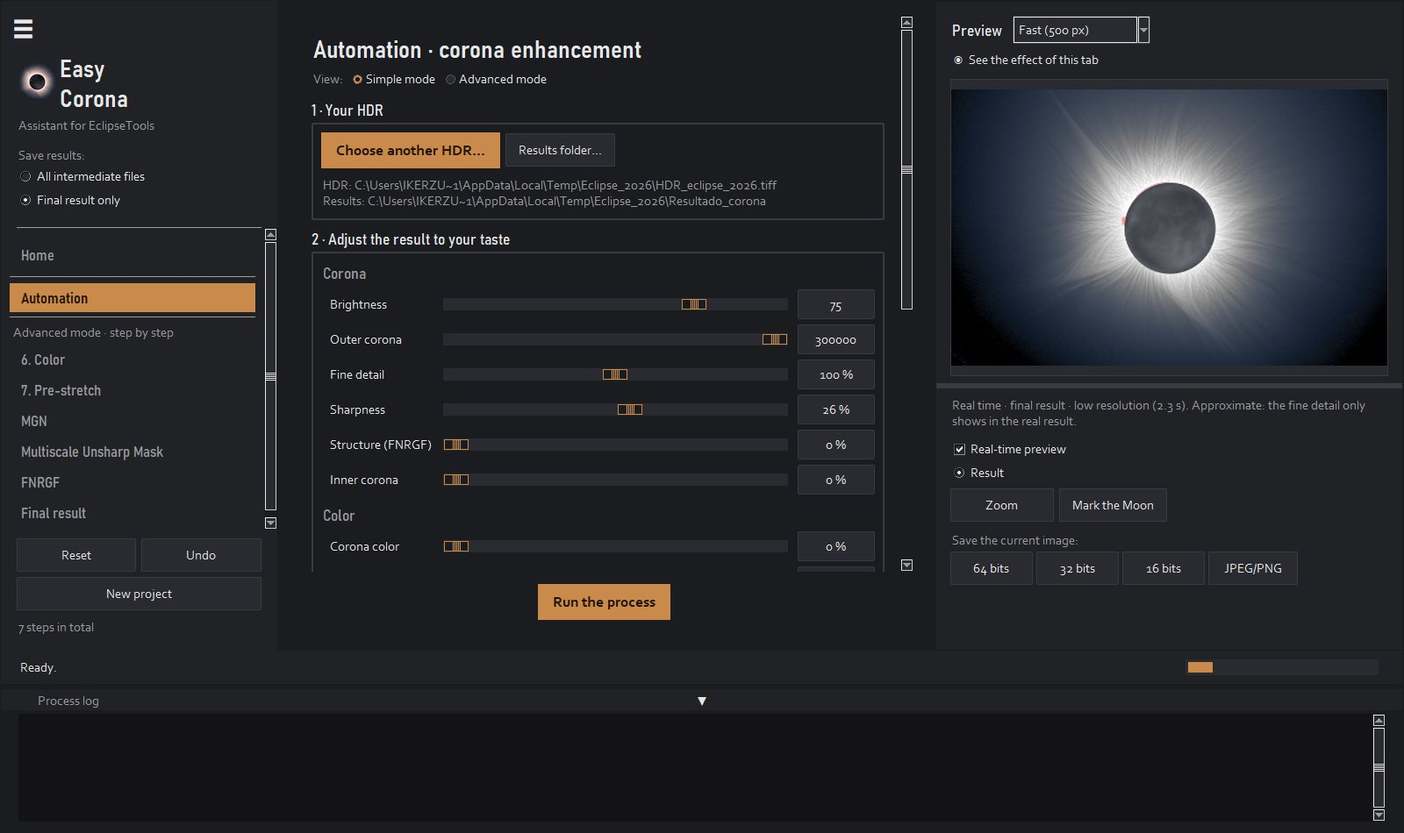
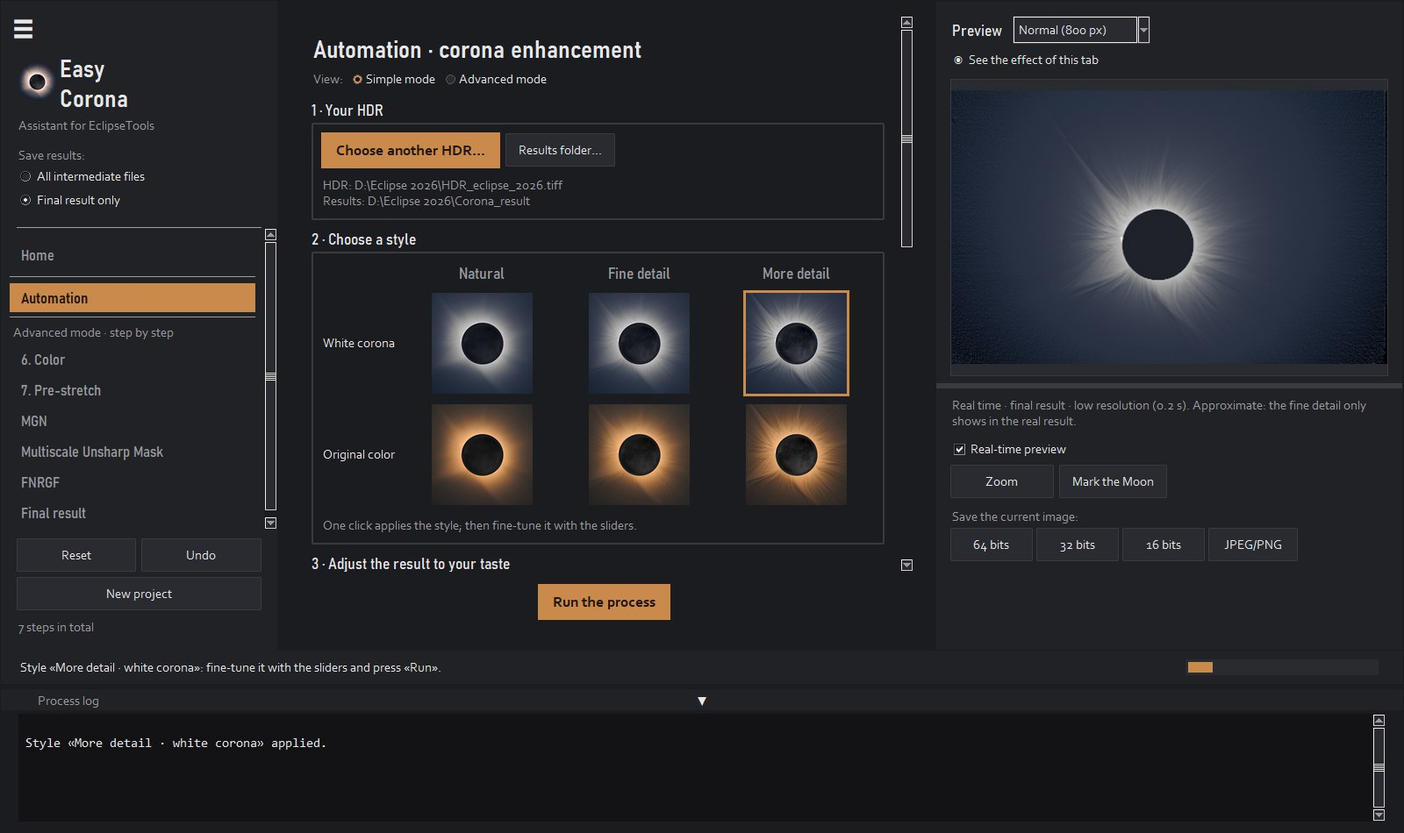
Easy Corona 1.4.4: descargas, novedades, estilos y capturas sin rutas personales
- Descargas y version.json de la 1.4.4 (actualizar desde la app).
- Sección «Mismas fotos, siete resultados» (los seis, estilos de la app).
- Capturas de la app y del tutorial sin rutas con el nombre del usuario; tutorial con los estilos.

diff --git a/index.html b/index.html
@@ -300,6 +300,19 @@
   .rotulo.der { right: 14px; color: var(--cobre-claro); }
   .pie { margin-top: 14px; display: flex; flex-wrap: wrap; justify-content: space-between; gap: 8px 24px; color: var(--gris-2); font: 400 0.85rem/1.5 var(--mono); }
 
+  /* Estilos: la misma corona de siete maneras (la mía primero, sola en el centro de la primera fila) */
+  .estilos { display: grid; grid-template-columns: repeat(3, minmax(0, 1fr)); gap: 22px 18px; margin: 0; padding: 0; list-style: none; }
+  @media (max-width: 860px) { .estilos { grid-template-columns: repeat(2, minmax(0, 1fr)); grid-template-rows: repeat(4, auto); grid-auto-flow: column; } }
+  @media (max-width: 420px) { .estilos { gap: 16px 10px; } }
+  .estilo { margin: 0; display: grid; gap: 10px; align-content: start; }
+  .estilo img { width: 100%; height: auto; aspect-ratio: 1; object-fit: cover; border-radius: 4px; border: 1px solid var(--linea); background: #0d1119; }
+  .estilo figcaption { display: grid; gap: 2px; }
+  .estilo b { font: 600 1.25rem/1.2 var(--display); }
+  .estilo span { color: var(--gris); font-size: 0.98rem; line-height: 1.4; }
+  .estilos .mia { grid-column: 1 / -1; justify-self: center; width: calc((100% - 36px) / 3); }
+  @media (max-width: 860px) { .estilos .mia { grid-column: 1 / -1; grid-row: 1; justify-self: center; width: calc(50% - 9px); } }
+  @media (max-width: 420px) { .estilos .mia { width: calc(50% - 5px); } }
+
   /* Qué hace */
   .rasgos { display: grid; grid-template-columns: repeat(auto-fit, minmax(300px, 1fr)); gap: 0 56px; }
   .rasgo { display: grid; grid-template-columns: 7.2rem 1fr; gap: 18px; padding-block: 22px; border-top: 1px solid var(--linea); }
@@ -410,7 +423,7 @@
           <a class="boton boton-principal" href="#mac">Descargar gratis <small>Mac</small></a>
           <a class="boton boton-secundario" href="#antes">Ver el antes y después</a>
         </div>
-        <p class="portada-datos">Windows 10 y 11 · macOS 15 o posterior · en español e inglés · versión 1.4.3</p>
+        <p class="portada-datos">Windows 10 y 11 · macOS 15 o posterior · en español e inglés · versión 1.4.4</p>
       </div>
     </div>
     <p class="credito">Foto: Iker Zubizarreta</p>
@@ -466,6 +479,26 @@
     </div>
   </section>
 
+  <section id="estilos" aria-labelledby="t-estilos" style="padding-top:0">
+    <div class="envoltura">
+      <div class="cabecera-seccion">
+        <p class="etiqueta">Tu resultado</p>
+        <h2 id="t-estilos">Mismas fotos, siete resultados</h2>
+        <p class="entradilla">El mismo HDR, siete resultados. El primero es mi versión. Los otros seis salen tal cual de Easy Corona, sin retoques en otros programas: de menos a más detalle, con la corona blanca o con su color original, y la luz cenicienta de la Luna más suave o más fuerte. Los seis vienen dentro de la app como estilos: un clic y luego lo afinas con los deslizadores, con la vista previa enseñándote el resultado antes de guardarlo.</p>
+      </div>
+      <ul class="estilos">
+        <li class="mia"><figure class="estilo"><img src="img/estilos/7_mi_version.jpg" width="900" height="900" loading="lazy" alt="La corona de color crema con sus rayos largos sobre un cielo azul, la protuberancia roja en el borde de la Luna y la Luna con sus mares"><figcaption><b>Mi versión</b><span>La que más me gusta.</span></figcaption></figure></li>
+        <li><figure class="estilo"><img src="img/estilos/1_natural_blanca.jpg" width="900" height="900" loading="lazy" alt="La corona blanca, suave y luminosa, sin detalle añadido, sobre un cielo azul de eclipse; la Luna, apenas iluminada por la luz cenicienta"><figcaption><b>Natural</b><span>Corona blanca y luz cenicienta suave.</span></figcaption></figure></li>
+        <li><figure class="estilo"><img src="img/estilos/2_detalle_fino_blanca.jpg" width="900" height="900" loading="lazy" alt="La corona blanca con sus rayos realzados sobre un cielo azul con estrellas; en la Luna se adivinan sus mares"><figcaption><b>Detalle fino</b><span>Rayos finos, corona blanca y luz cenicienta media.</span></figcaption></figure></li>
+        <li><figure class="estilo"><img src="img/estilos/3_mas_detalle_blanca.jpg" width="900" height="900" loading="lazy" alt="La corona blanca con los rayos muy marcados hasta lejos del Sol y estrellas en el cielo azul; la Luna, con sus mares bien visibles por la luz cenicienta"><figcaption><b>Más detalle</b><span>Rayos muy marcados, corona blanca y luz cenicienta fuerte.</span></figcaption></figure></li>
+        <li><figure class="estilo"><img src="img/estilos/4_natural_color.jpg" width="900" height="900" loading="lazy" alt="La corona con su color original, naranja cálido, suave y sin detalle añadido; la Luna, apenas iluminada por la luz cenicienta"><figcaption><b>Natural</b><span>Color original y luz cenicienta suave.</span></figcaption></figure></li>
+        <li><figure class="estilo"><img src="img/estilos/5_detalle_fino_color.jpg" width="900" height="900" loading="lazy" alt="La corona con su color original, naranja, y sus rayos realzados; en la Luna se adivinan sus mares"><figcaption><b>Detalle fino</b><span>Rayos finos, color original y luz cenicienta media.</span></figcaption></figure></li>
+        <li><figure class="estilo"><img src="img/estilos/6_mas_detalle_color.jpg" width="900" height="900" loading="lazy" alt="La corona con su color original, naranja, con los rayos muy marcados y estrellas; la Luna, con sus mares bien visibles por la luz cenicienta"><figcaption><b>Más detalle</b><span>Rayos muy marcados, color original y luz cenicienta fuerte.</span></figcaption></figure></li>
+      </ul>
+      <div class="pie"><span>Foto: Iker Zubizarreta · 600 mm · las otras seis, tal cual salen de Easy Corona (recortadas)</span><span>Pruébala con tus fotos en la versión gratuita</span></div>
+    </div>
+  </section>
+
   <section aria-labelledby="t-hace" style="padding-top:0">
     <div class="envoltura">
       <div class="cabecera-seccion">
@@ -503,7 +536,7 @@
         </ol>
         <p style="margin-top:28px"><a class="boton boton-secundario" href="tutorial/">Tutorial paso a paso</a></p>
       </div>
-      <img class="captura" src="img/app.jpg" alt="La ventana de Easy Corona en el modo sencillo: deslizadores de brillo, corona exterior, detalle fino y color, con la vista previa del eclipse a la derecha" loading="lazy" width="1600" height="950">
+      <img class="captura" src="img/app.jpg" alt="La ventana de Easy Corona en el modo sencillo: los seis estilos con un clic (Natural, Detalle fino y Más detalle, con la corona blanca o con su color original) y la vista previa del eclipse a la derecha" loading="lazy" width="1600" height="950">
     </div>
   </section>
 
@@ -654,9 +687,9 @@
   // Enlaces de la tienda y de la descarga: se rellenan cuando existan.
   // Mientras estén vacíos, los botones avisan en vez de llevar a ninguna parte.
   const ENLACES = {
-    windows: "https://github.com/zu2pic/zu2pic.github.io/releases/download/v1.4.3/EasyCorona_Instalador_1.4.3.exe",
-    mac_apple: "https://github.com/zu2pic/zu2pic.github.io/releases/download/v1.4.3/EasyCorona_1.4.3_mac_arm64.dmg",
-    mac_intel: "https://github.com/zu2pic/zu2pic.github.io/releases/download/v1.4.3/EasyCorona_1.4.3_mac_x86_64.dmg",
+    windows: "https://github.com/zu2pic/zu2pic.github.io/releases/download/v1.4.4/EasyCorona_Instalador_1.4.4.exe",
+    mac_apple: "https://github.com/zu2pic/zu2pic.github.io/releases/download/v1.4.4/EasyCorona_1.4.4_mac_arm64.dmg",
+    mac_intel: "https://github.com/zu2pic/zu2pic.github.io/releases/download/v1.4.4/EasyCorona_1.4.4_mac_x86_64.dmg",
     premium: "https://buy.stripe.com/8x2eVe9Q7eXH8QddbUbo401",
     premium_plus: "https://buy.stripe.com/14AcN63rJeXH0jH0p8bo402",
   };

diff --git a/en/index.html b/en/index.html
@@ -300,6 +300,19 @@
   .rotulo.der { right: 14px; color: var(--cobre-claro); }
   .pie { margin-top: 14px; display: flex; flex-wrap: wrap; justify-content: space-between; gap: 8px 24px; color: var(--gris-2); font: 400 0.85rem/1.5 var(--mono); }
 
+  /* Estilos: la misma corona de siete maneras (la mía primero, sola en el centro de la primera fila) */
+  .estilos { display: grid; grid-template-columns: repeat(3, minmax(0, 1fr)); gap: 22px 18px; margin: 0; padding: 0; list-style: none; }
+  @media (max-width: 860px) { .estilos { grid-template-columns: repeat(2, minmax(0, 1fr)); grid-template-rows: repeat(4, auto); grid-auto-flow: column; } }
+  @media (max-width: 420px) { .estilos { gap: 16px 10px; } }
+  .estilo { margin: 0; display: grid; gap: 10px; align-content: start; }
+  .estilo img { width: 100%; height: auto; aspect-ratio: 1; object-fit: cover; border-radius: 4px; border: 1px solid var(--linea); background: #0d1119; }
+  .estilo figcaption { display: grid; gap: 2px; }
+  .estilo b { font: 600 1.25rem/1.2 var(--display); }
+  .estilo span { color: var(--gris); font-size: 0.98rem; line-height: 1.4; }
+  .estilos .mia { grid-column: 1 / -1; justify-self: center; width: calc((100% - 36px) / 3); }
+  @media (max-width: 860px) { .estilos .mia { grid-column: 1 / -1; grid-row: 1; justify-self: center; width: calc(50% - 9px); } }
+  @media (max-width: 420px) { .estilos .mia { width: calc(50% - 5px); } }
+
   /* Qué hace */
   .rasgos { display: grid; grid-template-columns: repeat(auto-fit, minmax(300px, 1fr)); gap: 0 56px; }
   .rasgo { display: grid; grid-template-columns: 7.2rem 1fr; gap: 18px; padding-block: 22px; border-top: 1px solid var(--linea); }
@@ -410,7 +423,7 @@
           <a class="boton boton-principal" href="#mac">Free download <small>Mac</small></a>
           <a class="boton boton-secundario" href="#antes">See the before and after</a>
         </div>
-        <p class="portada-datos">Windows 10 and 11 · macOS 15 or later · in English and Spanish · version 1.4.3</p>
+        <p class="portada-datos">Windows 10 and 11 · macOS 15 or later · in English and Spanish · version 1.4.4</p>
       </div>
     </div>
     <p class="credito">Photo: Iker Zubizarreta</p>
@@ -466,6 +479,26 @@
     </div>
   </section>
 
+  <section id="estilos" aria-labelledby="t-estilos" style="padding-top:0">
+    <div class="envoltura">
+      <div class="cabecera-seccion">
+        <p class="etiqueta">Your look</p>
+        <h2 id="t-estilos">Same photos, seven looks</h2>
+        <p class="entradilla">The same HDR, seven looks. The first one is my own version. The other six come straight out of Easy Corona, with no retouching in other programs: from less to more detail, with a white corona or its original color, and softer or stronger earthshine on the Moon. All six come inside the app as styles: one click, then you fine-tune it with the sliders while the live preview shows you the result before you save it.</p>
+      </div>
+      <ul class="estilos">
+        <li class="mia"><figure class="estilo"><img src="../img/estilos/7_mi_version.jpg" width="900" height="900" loading="lazy" alt="The cream-colored corona with its long streamers on a blue sky, the red prominence on the Moon's edge and the Moon with its maria"><figcaption><b>My version</b><span>My favourite.</span></figcaption></figure></li>
+        <li><figure class="estilo"><img src="../img/estilos/1_natural_blanca.jpg" width="900" height="900" loading="lazy" alt="The white corona, soft and bright, with no added detail, on an eclipse-blue sky; the Moon barely lit by earthshine"><figcaption><b>Natural</b><span>White corona and soft earthshine.</span></figcaption></figure></li>
+        <li><figure class="estilo"><img src="../img/estilos/2_detalle_fino_blanca.jpg" width="900" height="900" loading="lazy" alt="The white corona with its streamers enhanced on a blue sky with stars; the Moon's maria can just be made out"><figcaption><b>Fine detail</b><span>Fine streamers, white corona and medium earthshine.</span></figcaption></figure></li>
+        <li><figure class="estilo"><img src="../img/estilos/3_mas_detalle_blanca.jpg" width="900" height="900" loading="lazy" alt="The white corona with strongly defined streamers reaching far from the Sun and stars in the blue sky; the Moon with its maria clearly lit by earthshine"><figcaption><b>More detail</b><span>Bold streamers, white corona and strong earthshine.</span></figcaption></figure></li>
+        <li><figure class="estilo"><img src="../img/estilos/4_natural_color.jpg" width="900" height="900" loading="lazy" alt="The corona in its original color, a warm orange, soft and with no added detail; the Moon barely lit by earthshine"><figcaption><b>Natural</b><span>Original color and soft earthshine.</span></figcaption></figure></li>
+        <li><figure class="estilo"><img src="../img/estilos/5_detalle_fino_color.jpg" width="900" height="900" loading="lazy" alt="The corona in its original orange color, with its streamers enhanced; the Moon's maria can just be made out"><figcaption><b>Fine detail</b><span>Fine streamers, original color and medium earthshine.</span></figcaption></figure></li>
+        <li><figure class="estilo"><img src="../img/estilos/6_mas_detalle_color.jpg" width="900" height="900" loading="lazy" alt="The corona in its original orange color, with strongly defined streamers and stars; the Moon with its maria clearly lit by earthshine"><figcaption><b>More detail</b><span>Bold streamers, original color and strong earthshine.</span></figcaption></figure></li>
+      </ul>
+      <div class="pie"><span>Photo: Iker Zubizarreta · 600 mm · the other six straight out of Easy Corona (cropped)</span><span>Try it with your photos in the free version</span></div>
+    </div>
+  </section>
+
   <section aria-labelledby="t-hace" style="padding-top:0">
     <div class="envoltura">
       <div class="cabecera-seccion">
@@ -503,7 +536,7 @@
         </ol>
         <p style="margin-top:28px"><a class="boton boton-secundario" href="tutorial/">Step-by-step tutorial</a></p>
       </div>
-      <img class="captura" src="../img/app_en.jpg" alt="The Easy Corona window in the Simple mode: brightness, outer corona, fine detail and color sliders, with the eclipse preview on the right" loading="lazy" width="1600" height="950">
+      <img class="captura" src="../img/app_en.jpg" alt="The Easy Corona window in the Simple mode: the six one-click styles (Natural, Fine detail and More detail, with a white corona or its original color) and the eclipse preview on the right" loading="lazy" width="1600" height="950">
     </div>
   </section>
 
@@ -657,9 +690,9 @@
 <script>
   // Store and download links (the same as on the Spanish page).
   const ENLACES = {
-    windows: "https://github.com/zu2pic/zu2pic.github.io/releases/download/v1.4.3/EasyCorona_Instalador_1.4.3.exe",
-    mac_apple: "https://github.com/zu2pic/zu2pic.github.io/releases/download/v1.4.3/EasyCorona_1.4.3_mac_arm64.dmg",
-    mac_intel: "https://github.com/zu2pic/zu2pic.github.io/releases/download/v1.4.3/EasyCorona_1.4.3_mac_x86_64.dmg",
+    windows: "https://github.com/zu2pic/zu2pic.github.io/releases/download/v1.4.4/EasyCorona_Instalador_1.4.4.exe",
+    mac_apple: "https://github.com/zu2pic/zu2pic.github.io/releases/download/v1.4.4/EasyCorona_1.4.4_mac_arm64.dmg",
+    mac_intel: "https://github.com/zu2pic/zu2pic.github.io/releases/download/v1.4.4/EasyCorona_1.4.4_mac_x86_64.dmg",
     premium: "https://buy.stripe.com/8x2eVe9Q7eXH8QddbUbo401?locale=en&client_reference_id=en",
     premium_plus: "https://buy.stripe.com/14AcN63rJeXH0jH0p8bo402?locale=en&client_reference_id=en",
   };

diff --git a/actualizar/index.html b/actualizar/index.html
@@ -3,7 +3,7 @@
 <head>
 <meta charset="utf-8">
 <meta name="viewport" content="width=device-width, initial-scale=1, viewport-fit=cover">
-<title>Easy Corona 1.4.3 · Actualización</title>
+<title>Easy Corona 1.4.4 · Actualización</title>
 <link rel="icon" type="image/png" href="../img/icono.png">
 <link rel="alternate" hreflang="es" href="https://zu2pic.github.io/actualizar/">
 <link rel="alternate" hreflang="en" href="https://zu2pic.github.io/en/update/">
@@ -201,9 +201,19 @@
   <a class="volver" href="../index.html">← Easy Corona</a>
   <div style="display:grid;gap:12px">
     <p class="etiqueta">Actualización gratuita</p>
-    <h1>Easy Corona 1.4.3</h1>
+    <h1>Easy Corona 1.4.4</h1>
     <p class="gris">Se instala encima de la versión anterior y conserva tu licencia, tus presets y tus proyectos. Si vienes de una versión anterior, abajo tienes también todo lo que ha salido desde entonces.</p>
   </div>
+
+  <section style="display:grid;gap:14px">
+    <h2>Novedades de la 1.4.4</h2>
+    <ul class="novedades gris">
+      <li><b>Estilos con un clic.</b> En el modo sencillo, «Elige un estilo» pone uno de seis aspectos: Natural, Detalle fino o Más detalle, con la corona blanca o con su color original. Luego lo afinas con los deslizadores. Están en todas las versiones, también en la gratuita, y en el menú Presets → «Estilos de Easy Corona».</li>
+      <li><b>Color original más fiel.</b> «Conservar la saturación» da ahora el mismo color que tus RAW (antes la corona podía salir mucho más saturada) y el cielo ya no sale gris claro cuando hay protuberancias muy de color.</li>
+      <li><b>Vista previa más fiel.</b> Enseña el mismo color que el resultado, también en las protuberancias, y el cielo lejano con el mismo brillo.</li>
+      <li><b>El borde de la Luna, sin quemar.</b> El detalle fino ya no quema el borde de la Luna, y «Cielo más oscuro» ya no deja negro el disco de la Luna.</li>
+    </ul>
+  </section>
 
   <section style="display:grid;gap:14px">
     <h2>Novedades de la 1.4.3</h2>
@@ -268,7 +278,7 @@
 
   <ol class="pasos">
     <li><div>
-      <h2>Descarga la versión 1.4.3</h2>
+      <h2>Descarga la versión 1.4.4</h2>
       <div class="botones">
         <a class="boton" href="#" data-enlace="windows">Descargar para Windows <small>10 y 11</small></a>
         <a class="boton" href="#" data-enlace="mac_apple">Mac con chip Apple <small>M1 o posterior</small></a>
@@ -283,7 +293,7 @@
     </div></li>
     <li><div>
       <h2>Ábrela</h2>
-      <p class="gris">Arriba verás «Easy Corona 1.4.3» y tu versión. Si saliera la gratuita, ve a <b>Licencia → Activar licencia…</b> y pega otra vez la clave que te llegó por correo. Cualquier problema: <span class="correo">zu3run@gmail.com</span>.</p>
+      <p class="gris">Arriba verás «Easy Corona 1.4.4» y tu versión. Si saliera la gratuita, ve a <b>Licencia → Activar licencia…</b> y pega otra vez la clave que te llegó por correo. Cualquier problema: <span class="correo">zu3run@gmail.com</span>.</p>
     </div></li>
   </ol>
 </main>
@@ -291,9 +301,9 @@
 <script>
   // Los mismos enlaces de descarga que en la portada.
   const ENLACES = {
-    windows: "https://github.com/zu2pic/zu2pic.github.io/releases/download/v1.4.3/EasyCorona_Instalador_1.4.3.exe",
-    mac_apple: "https://github.com/zu2pic/zu2pic.github.io/releases/download/v1.4.3/EasyCorona_1.4.3_mac_arm64.dmg",
-    mac_intel: "https://github.com/zu2pic/zu2pic.github.io/releases/download/v1.4.3/EasyCorona_1.4.3_mac_x86_64.dmg",
+    windows: "https://github.com/zu2pic/zu2pic.github.io/releases/download/v1.4.4/EasyCorona_Instalador_1.4.4.exe",
+    mac_apple: "https://github.com/zu2pic/zu2pic.github.io/releases/download/v1.4.4/EasyCorona_1.4.4_mac_arm64.dmg",
+    mac_intel: "https://github.com/zu2pic/zu2pic.github.io/releases/download/v1.4.4/EasyCorona_1.4.4_mac_x86_64.dmg",
   };
   document.querySelectorAll("[data-enlace]").forEach((a) => { a.href = ENLACES[a.dataset.enlace]; });
 </script>

diff --git a/en/update/index.html b/en/update/index.html
@@ -3,7 +3,7 @@
 <head>
 <meta charset="utf-8">
 <meta name="viewport" content="width=device-width, initial-scale=1, viewport-fit=cover">
-<title>Easy Corona 1.4.3 · Update</title>
+<title>Easy Corona 1.4.4 · Update</title>
 <link rel="icon" type="image/png" href="../../img/icono.png">
 <link rel="alternate" hreflang="es" href="https://zu2pic.github.io/actualizar/">
 <link rel="alternate" hreflang="en" href="https://zu2pic.github.io/en/update/">
@@ -194,9 +194,19 @@
   <a class="volver" href="../index.html">← Easy Corona</a>
   <div style="display:grid;gap:12px">
     <p class="etiqueta">Free update</p>
-    <h1>Easy Corona 1.4.3</h1>
+    <h1>Easy Corona 1.4.4</h1>
     <p class="gris">It installs over the previous version and keeps your license, your presets and your projects. If you're coming from an older version, below you also have everything released since.</p>
   </div>
+
+  <section style="display:grid;gap:14px">
+    <h2>What's new in 1.4.4</h2>
+    <ul class="novedades gris">
+      <li><b>One-click styles.</b> In simple mode, «Choose a style» applies one of six looks: Natural, Fine detail or More detail, with a white corona or its original color. Then you fine-tune it with the sliders. They are in every version, including the free one, and in the Presets menu → «Easy Corona styles».</li>
+      <li><b>Truer original color.</b> «Keep the saturation» now gives the same color as your RAW files (the corona could come out much more saturated), and the sky no longer turns light gray when there are very colorful prominences.</li>
+      <li><b>A more faithful preview.</b> It shows the same color as the result, prominences included, and the far sky with the same brightness.</li>
+      <li><b>The Moon's edge, not burnt.</b> Fine detail no longer burns the Moon's edge, and «Darker sky» no longer turns the Moon's disc black.</li>
+    </ul>
+  </section>
 
   <section style="display:grid;gap:14px">
     <h2>What's new in 1.4.3</h2>
@@ -261,7 +271,7 @@
 
   <ol class="pasos">
     <li><div>
-      <h2>Download version 1.4.3</h2>
+      <h2>Download version 1.4.4</h2>
       <div class="botones">
         <a class="boton" href="#" data-enlace="windows">Download for Windows <small>10 and 11</small></a>
         <a class="boton" href="#" data-enlace="mac_apple">Mac with Apple silicon <small>M1 or later</small></a>
@@ -276,7 +286,7 @@
     </div></li>
     <li><div>
       <h2>Open it</h2>
-      <p class="gris">At the top you'll see “Easy Corona 1.4.3” and your version. If the free version showed up, go to <b>License → Activate license…</b> and paste again the key you received by email. Any problem: <span class="correo">zu3run@gmail.com</span>.</p>
+      <p class="gris">At the top you'll see “Easy Corona 1.4.4” and your version. If the free version showed up, go to <b>License → Activate license…</b> and paste again the key you received by email. Any problem: <span class="correo">zu3run@gmail.com</span>.</p>
     </div></li>
   </ol>
 </main>
@@ -284,9 +294,9 @@
 <script>
   // The same download links as on the home page.
   const ENLACES = {
-    windows: "https://github.com/zu2pic/zu2pic.github.io/releases/download/v1.4.3/EasyCorona_Instalador_1.4.3.exe",
-    mac_apple: "https://github.com/zu2pic/zu2pic.github.io/releases/download/v1.4.3/EasyCorona_1.4.3_mac_arm64.dmg",
-    mac_intel: "https://github.com/zu2pic/zu2pic.github.io/releases/download/v1.4.3/EasyCorona_1.4.3_mac_x86_64.dmg",
+    windows: "https://github.com/zu2pic/zu2pic.github.io/releases/download/v1.4.4/EasyCorona_Instalador_1.4.4.exe",
+    mac_apple: "https://github.com/zu2pic/zu2pic.github.io/releases/download/v1.4.4/EasyCorona_1.4.4_mac_arm64.dmg",
+    mac_intel: "https://github.com/zu2pic/zu2pic.github.io/releases/download/v1.4.4/EasyCorona_1.4.4_mac_x86_64.dmg",
   };
   document.querySelectorAll("[data-enlace]").forEach((a) => { a.href = ENLACES[a.dataset.enlace]; });
 </script>

diff --git a/tutorial/index.html b/tutorial/index.html
@@ -331,7 +331,7 @@
       <p class="num">5</p>
       <h2>Realzar la corona: el modo sencillo</h2>
       <div class="texto">
-        <p>En <span class="ui">Automatización</span>, con el HDR elegido, cada deslizador se ve al momento en la vista previa. Deja el ratón encima de cualquiera para ver qué hace.</p>
+        <p>En <span class="ui">Automatización</span>, con el HDR elegido, <span class="ui">Elige un estilo</span> pone con un clic uno de seis aspectos: Natural, Detalle fino o Más detalle, con la corona blanca o con su color original (este necesita un RAW de la sesión). Luego se afina con los deslizadores, y cada uno se ve al momento en la vista previa. Deja el ratón encima de cualquiera para ver qué hace.</p>
         <ul>
           <li><b>Brillo</b>: el de la corona a 1,3-1,5 radios lunares, en L* (0-100).</li>
           <li><b>Corona exterior</b>: cuánto se estira la imagen antes del realce. Más = más corona lejana (y más ruido en el cielo).</li>
@@ -345,6 +345,7 @@
         </ul>
         <p><span class="ui">Ejecutar el proceso</span> hace todo el realce y guarda el resultado. Si después solo cambias algo del resultado final (brillo, cielo, Luna, cromosfera o estrellas), se rehace solo ese paso, en segundos. <span class="ui">Valores recomendados</span> vuelve a los de partida.</p>
       </div>
+      <figure><img src="../img/tutorial/es_estilos.jpg" alt="El modo sencillo: los seis estilos con un clic, con la vista previa del eclipse a la derecha" loading="lazy" width="1600" height="950"><figcaption>Modo sencillo: los estilos</figcaption></figure>
       <figure><img src="../img/tutorial/es_sencillo.jpg" alt="El modo sencillo: deslizadores de la corona y del color, con la vista previa del eclipse a la derecha" loading="lazy" width="1600" height="950"><figcaption>Modo sencillo: la corona y el color</figcaption></figure>
       <figure><img src="../img/tutorial/es_sencillo_abajo.jpg" alt="El modo sencillo más abajo: Luna, luz cenicienta, protuberancias y estrellas (beta)" loading="lazy" width="1600" height="950"><figcaption>Modo sencillo: Luna, cromosfera y estrellas</figcaption></figure>
     </div>

diff --git a/en/tutorial/index.html b/en/tutorial/index.html
@@ -330,7 +330,7 @@
       <p class="num">5</p>
       <h2>Enhancing the corona: Simple mode</h2>
       <div class="texto">
-        <p>In <span class="ui">Automation</span>, with the HDR chosen, each slider shows up instantly in the preview. Hover over any of them to see what it does.</p>
+        <p>In <span class="ui">Automation</span>, with the HDR chosen, <span class="ui">Choose a style</span> applies one of six looks with one click: Natural, Fine detail or More detail, with a white corona or its original color (that one needs a RAW file from the session). Then you fine-tune it with the sliders, and each one shows up instantly in the preview. Hover over any of them to see what it does.</p>
         <ul>
           <li><b>Brightness</b>: that of the corona at 1.3-1.5 lunar radii, in L* (0-100).</li>
           <li><b>Outer corona</b>: how much the image is stretched before the enhancement. More = more distant corona (and more noise in the sky).</li>
@@ -344,6 +344,7 @@
         </ul>
         <p><span class="ui">Run the process</span> does the whole enhancement and saves the result. If afterwards you only change something of the final result (brightness, sky, Moon, chromosphere or stars), only that step is redone, in seconds. <span class="ui">Recommended values</span> goes back to the starting values.</p>
       </div>
+      <figure><img src="../../img/tutorial/en_estilos.jpg" alt="Simple mode: the six one-click styles, with the eclipse preview on the right" loading="lazy" width="1600" height="950"><figcaption>Simple mode: the styles</figcaption></figure>
       <figure><img src="../../img/tutorial/en_sencillo.jpg" alt="Simple mode: corona and color sliders, with the eclipse preview on the right" loading="lazy" width="1600" height="950"><figcaption>Simple mode: corona and color</figcaption></figure>
       <figure><img src="../../img/tutorial/en_sencillo_abajo.jpg" alt="Simple mode further down: Moon, earthshine, prominences and stars (beta)" loading="lazy" width="1600" height="950"><figcaption>Simple mode: Moon, chromosphere and stars</figcaption></figure>
     </div>

diff --git a/gracias/index.html b/gracias/index.html
@@ -230,9 +230,9 @@
 <script>
   // Los mismos enlaces de descarga que en la portada.
   const ENLACES = {
-    windows: "https://github.com/zu2pic/zu2pic.github.io/releases/download/v1.4.3/EasyCorona_Instalador_1.4.3.exe",
-    mac_apple: "https://github.com/zu2pic/zu2pic.github.io/releases/download/v1.4.3/EasyCorona_1.4.3_mac_arm64.dmg",
-    mac_intel: "https://github.com/zu2pic/zu2pic.github.io/releases/download/v1.4.3/EasyCorona_1.4.3_mac_x86_64.dmg",
+    windows: "https://github.com/zu2pic/zu2pic.github.io/releases/download/v1.4.4/EasyCorona_Instalador_1.4.4.exe",
+    mac_apple: "https://github.com/zu2pic/zu2pic.github.io/releases/download/v1.4.4/EasyCorona_1.4.4_mac_arm64.dmg",
+    mac_intel: "https://github.com/zu2pic/zu2pic.github.io/releases/download/v1.4.4/EasyCorona_1.4.4_mac_x86_64.dmg",
   };
   document.querySelectorAll("[data-enlace]").forEach((a) => { a.href = ENLACES[a.dataset.enlace]; });
 </script>

diff --git a/en/thanks/index.html b/en/thanks/index.html
@@ -222,9 +222,9 @@
 <script>
   // The same download links as on the home page.
   const ENLACES = {
-    windows: "https://github.com/zu2pic/zu2pic.github.io/releases/download/v1.4.3/EasyCorona_Instalador_1.4.3.exe",
-    mac_apple: "https://github.com/zu2pic/zu2pic.github.io/releases/download/v1.4.3/EasyCorona_1.4.3_mac_arm64.dmg",
-    mac_intel: "https://github.com/zu2pic/zu2pic.github.io/releases/download/v1.4.3/EasyCorona_1.4.3_mac_x86_64.dmg",
+    windows: "https://github.com/zu2pic/zu2pic.github.io/releases/download/v1.4.4/EasyCorona_Instalador_1.4.4.exe",
+    mac_apple: "https://github.com/zu2pic/zu2pic.github.io/releases/download/v1.4.4/EasyCorona_1.4.4_mac_arm64.dmg",
+    mac_intel: "https://github.com/zu2pic/zu2pic.github.io/releases/download/v1.4.4/EasyCorona_1.4.4_mac_x86_64.dmg",
   };
   document.querySelectorAll("[data-enlace]").forEach((a) => { a.href = ENLACES[a.dataset.enlace]; });
 </script>
